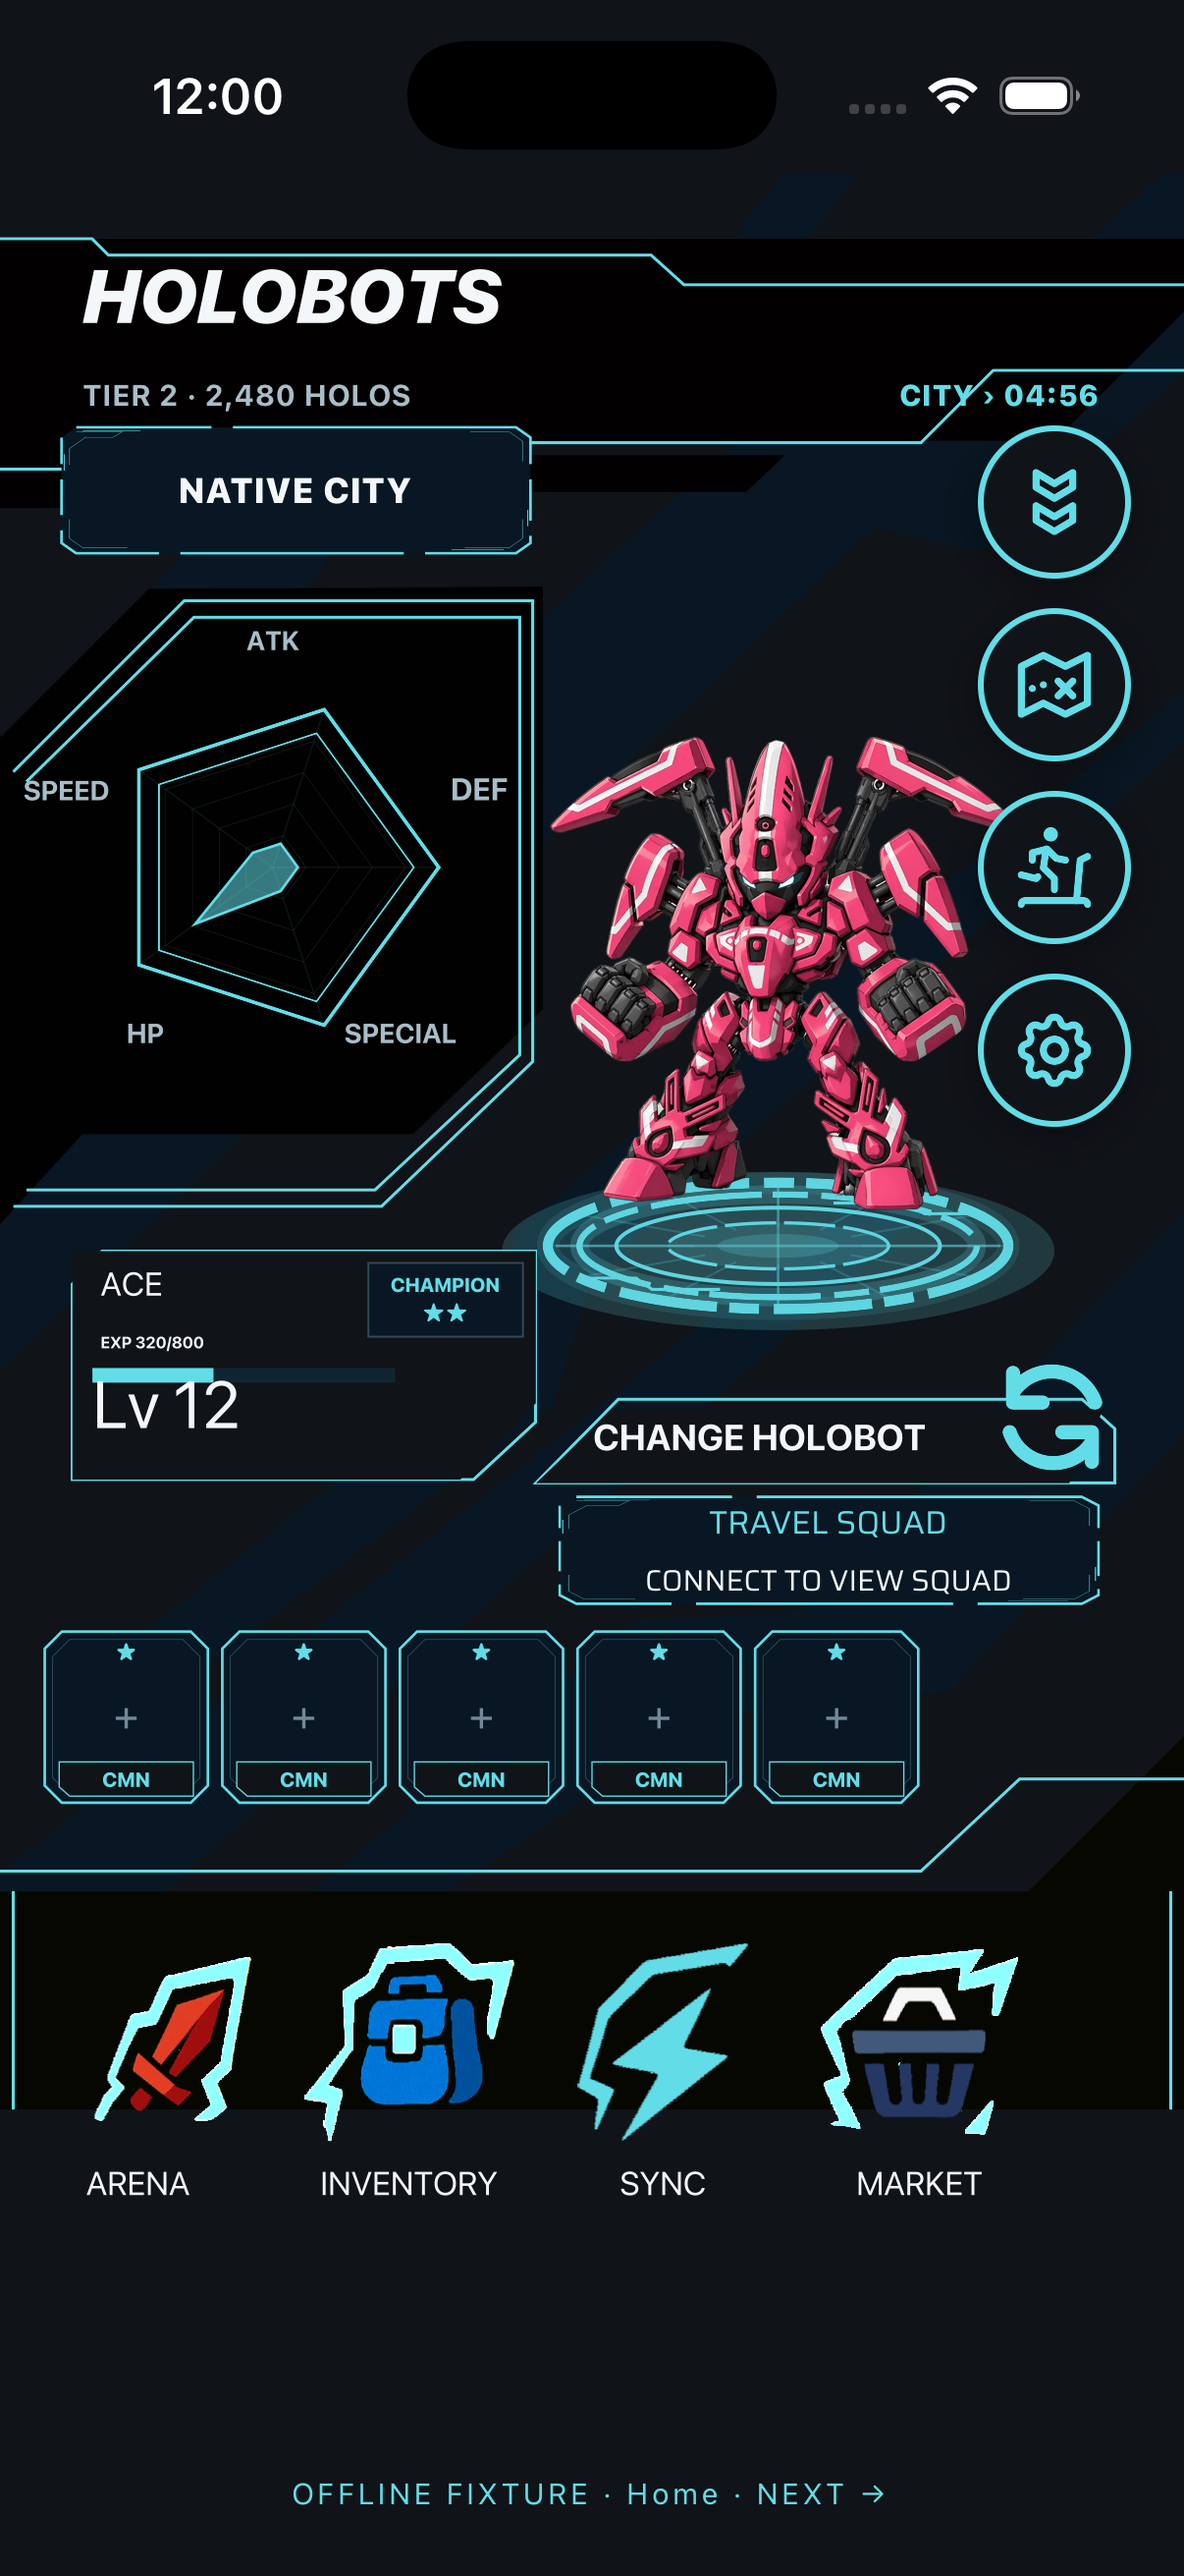
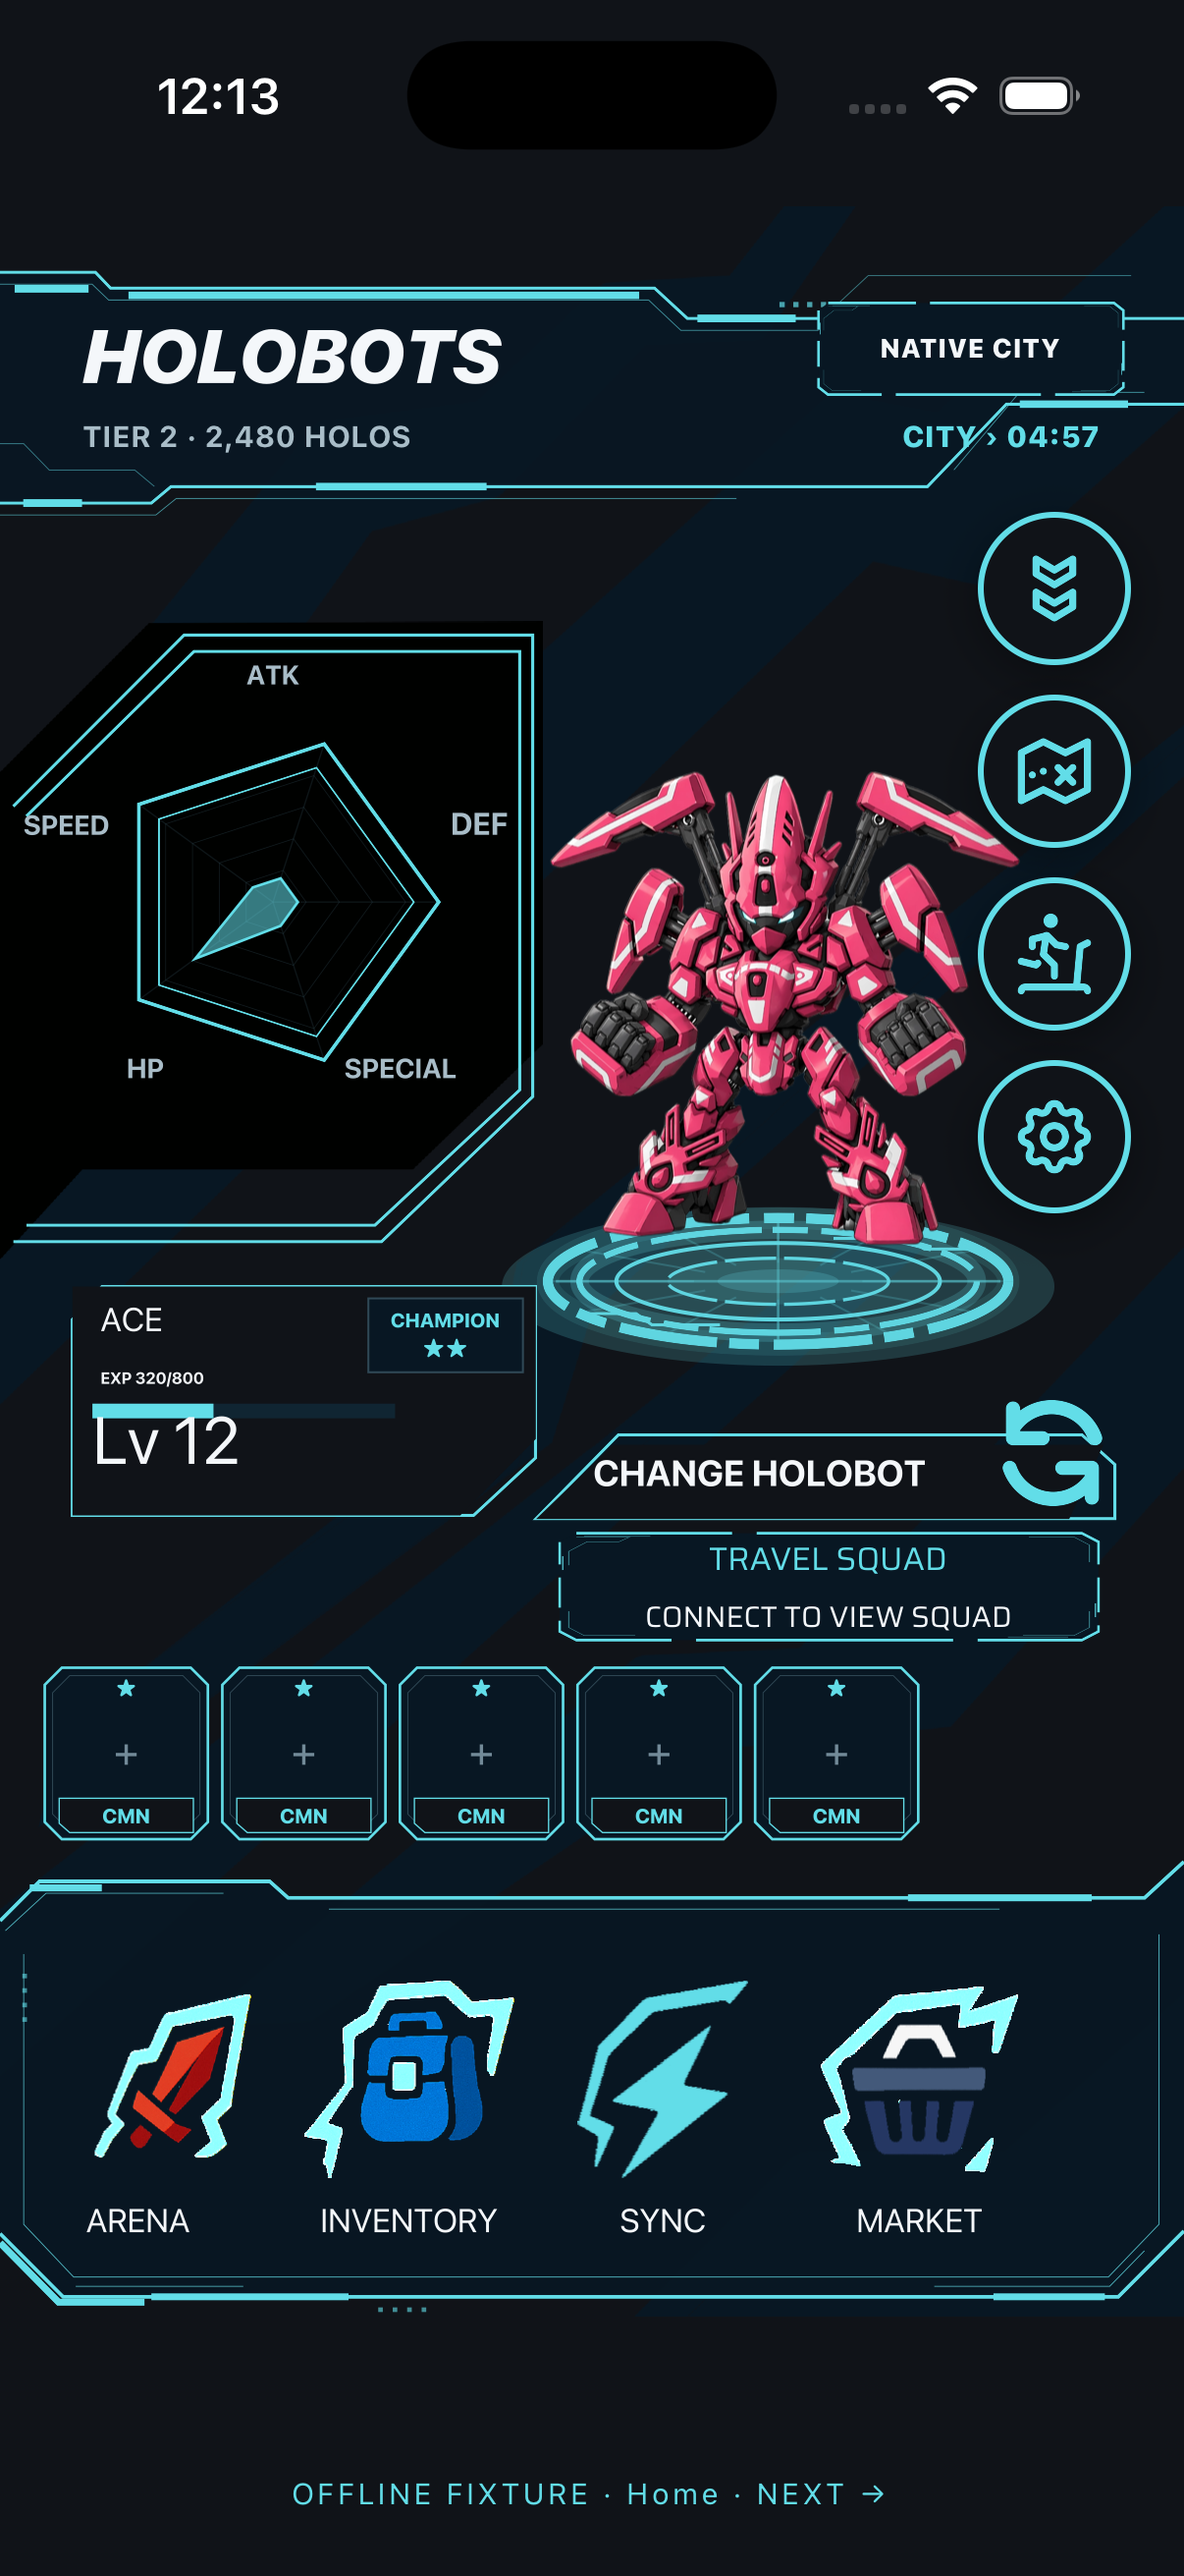
Refine dashboard header and enclosed navigation footer

diff --git a/mobile/src/screens/HomeScreen.tsx b/mobile/src/screens/HomeScreen.tsx
@@ -1,6 +1,7 @@
 import { useMemo, useState } from "react";
 import { Alert, Image as RNImage, Modal, Pressable, ScrollView, StyleSheet, Text as RNText, View, type DimensionValue, type ImageSourcePropType } from "react-native";
 import { Defs, Filter, FeColorMatrix, Image as SvgImage } from "react-native-svg";
+import { useSafeAreaInsets } from "react-native-safe-area-context";
 import { useNavigation } from "@react-navigation/native";
 
 import { DashboardSettingsModal } from "@/components/DashboardSettingsModal";
@@ -211,6 +212,7 @@ function ArtImage({
 
 export function HomeScreen({ rivalPreview }: { rivalPreview?: RivalHudPreview } = {}) {
   const navigation = useNavigation<BottomTabNavigationProp<RootTabs>>();
+  const insets = useSafeAreaInsets();
   const { profile, updateProfile, user } = useAuth();
   const rival = useRivalStatus(user?.uid, rivalPreview);
   const [selectedHolobotIndex, setSelectedHolobotIndex] = useState(0);
@@ -270,11 +272,11 @@ export function HomeScreen({ rivalPreview }: { rivalPreview?: RivalHudPreview } 
     SPEED: Math.min(100, selectedHolobot.stats.speed + partBoosts.speed),
   };
   return (
-    <FigmaCanvas>
+    <View style={{ flex: 1, paddingTop: insets.top + 8, paddingBottom: insets.bottom + 12, backgroundColor: theme.colors.carbon }}>
+    <FigmaCanvas fillHeight>
       <View style={StyleSheet.absoluteFill}>
         <ArtImage tintColor={theme.colors.carbon} source={homeAssets.backgroundBase} x={0} y={0} width={1800} height={3200} />
         <ArtImage tintColor={theme.plates.navy} source={homeAssets.backgroundDetail} x={0} y={0} width={1800} height={3200} />
-        <ArtImage source={homeAssets.topBackground} x={0} y={100} width={1800} height={409} />
         <ArtImage source={homeAssets.attributeChartBase} x={0} y={628} width={825} height={971} zIndex={2} />
         {abilitySlots.map(({ part, x }, index) => (
           <ArtImage
@@ -287,16 +289,24 @@ export function HomeScreen({ rivalPreview }: { rivalPreview?: RivalHudPreview } 
             zIndex={2}
           />
         ))}
-        <ArtImage source={homeAssets.bottomBackground} x={0} y={2375} width={1800} height={857} zIndex={2} />
-        <Svg width="100%" height="100%" viewBox={`0 0 ${ARTBOARD_WIDTH} ${ARTBOARD_HEIGHT}`} style={styles.vectorLayer}>
+        <Svg width="100%" height="100%" preserveAspectRatio="none" viewBox={`0 0 ${ARTBOARD_WIDTH} ${ARTBOARD_HEIGHT}`} style={styles.vectorLayer}>
           <G fill="none" stroke={theme.colors.accent} strokeWidth={5}>
-            <Path d="M0 100 H140 L165 125 H990 L1040 170 H1800 M0 450 H130 L180 410 H1400 L1510 300 H1800" />
+
             <Path d="M20 910 L280 650 H810 V1350 L580 1570 H20 M40 925 L295 675 H790 V1340 L570 1545 H40" />
             <Path d={`M110 ${HOME_INFO_CARD_Y + 50} L155 ${HOME_INFO_CARD_Y} H814 V${HOME_INFO_CARD_Y + 260} L720 ${HOME_INFO_CARD_Y + 347} H110 Z`} />
             <Path d={`M815 ${HOME_CHANGE_BAR_Y + 112} L940 ${HOME_CHANGE_BAR_Y - 15} H1645 L1695 ${HOME_CHANGE_BAR_Y + 30} V${HOME_CHANGE_BAR_Y + 112} Z`} />
-            <Path d="M0 2580 H1400 L1550 2440 H1800 M20 2610 V3100 L100 3170 H1710 L1780 3100 V2610" />
+
           </G>
-          <Text x={126} y={228} fill={theme.colors.text} fontSize={114} fontStyle="italic" fontWeight="900">HOLOBOTS</Text>
+          {/* Layered header plate follows the original silhouette. */}
+          <Path d="M0 100 H145 L168 124 H995 L1045 170 H1800 V300 H1530 L1410 425 H260 L230 450 H0 Z" fill={theme.plates.navy} fillOpacity={0.88} />
+          <G fill="none" stroke={theme.colors.accent}>
+            <Path d="M0 100 H145 L168 124 H995 L1045 170 H1800 M0 450 H230 L260 425 H1410 L1530 300 H1800" strokeWidth={5} />
+            <Path d="M0 118 H140 L165 142 H986 L1035 188 H1470 M0 468 H237 L268 443 H1120 M1450 400 L1550 282 H1740" strokeWidth={2} opacity={0.55} />
+            <Path d="M22 125 H135 M195 135 H930 L972 135 M1060 170 H1210 M480 425 H740 M35 450 H125 M1550 300 H1715" strokeWidth={12} />
+            <Path d="M0 360 H36 L75 400 H205 L235 425 M1250 170 L1320 105 H1720" strokeWidth={2} opacity={0.45} />
+          </G>
+          {[1185,1206,1227,1248].map(x => <Rect key={`header-dot-${x}`} x={x} y={145} width={8} height={8} fill={theme.colors.accent} opacity={0.7} />)}
+          <Text x={126} y={268} fill={theme.colors.text} fontSize={114} fontStyle="italic" fontWeight="900">HOLOBOTS</Text>
 
           {/* Hologram glow centered under the Holobot (portrait is zIndex 20,
               this vector layer is zIndex 10, so the bot stands on it). */}
@@ -393,7 +403,15 @@ export function HomeScreen({ rivalPreview }: { rivalPreview?: RivalHudPreview } 
           <G transform={`translate(1510 ${HOME_CHANGE_BAR_Y - 70})`} fill="none" stroke={theme.colors.accent} strokeWidth={22} strokeLinecap="round" strokeLinejoin="round">
             <Path d="M155 60 A70 70 0 0 0 30 45 M30 15 V60 H75 M25 105 A70 70 0 0 0 150 120 M150 150 V105 H105" />
           </G>
-          <Rect x={0} y={2942} width={1800} height={258} fill={theme.colors.carbon} />
+          {/* A complete plate behind BOTH icons and labels; no opaque label strip clipping its rim. */}
+          <Path d="M0 2600 L60 2540 H410 L438 2565 H1740 L1800 2510 V3070 L1700 3170 H96 L0 3074 Z" fill={theme.plates.navy} fillOpacity={0.92} />
+          <G fill="none" stroke={theme.colors.accent}>
+            <Path d="M0 2600 L60 2540 H410 L438 2565 H1740 L1800 2510 M1800 3070 L1700 3170 H96 L0 3074" strokeWidth={6} />
+            <Path d="M36 2650 V3060 L112 3140 H1685 L1762 3060 V2620 M8 2615 L70 2558 H340 M500 2582 H1520 M115 3154 H370 M1420 3154 H1687 L1740 3100" strokeWidth={2} opacity={0.7} />
+            <Path d="M0 3088 L89 3178 H220 M230 3170 H530 M1510 3170 H1680 M45 2550 H155 M1380 2565 H1660" strokeWidth={11} />
+          </G>
+          {[2680,2702,2724,2746].map(y => <Rect key={`footer-dot-${y}`} x={34} y={y} width={7} height={7} fill={theme.colors.accent} opacity={0.6} />)}
+          {[575,597,619,641].map(x => <Rect key={`footer-dot-${x}`} x={x} y={3186} width={7} height={7} fill={theme.colors.accent} opacity={0.6} />)}
           <Text x={210} y={3072} fill={theme.colors.text} fontSize={50} textAnchor="middle">ARENA</Text>
           <Text x={622} y={3072} fill={theme.colors.text} fontSize={50} textAnchor="middle">INVENTORY</Text>
           <Text x={1008} y={3072} fill={theme.colors.text} fontSize={50} textAnchor="middle">SYNC</Text>
@@ -546,7 +564,7 @@ export function HomeScreen({ rivalPreview }: { rivalPreview?: RivalHudPreview } 
             <RNText style={styles.cityText}>CITY › {rival.countdown || "RIVALS"}</RNText>
           </Pressable>
         </View>
-        <UnityLaunchButton />
+        <View style={styles.nativeCityEntry}><UnityLaunchButton inline compact /></View>
         <TravelSquadPanel uid={user?.uid} roster={roster} />
         <HolobotPickerModal
           onClose={() => setIsPickerOpen(false)}
@@ -648,13 +666,15 @@ export function HomeScreen({ rivalPreview }: { rivalPreview?: RivalHudPreview } 
         </Modal>
       </View>
     </FigmaCanvas>
+    </View>
   );
 }
 
 const styles = StyleSheet.create({
-  statusStrip: { position: "absolute", left: "7%", right: "7%", top: "8%", flexDirection: "row", justifyContent: "space-between", alignItems: "center", zIndex: 30 },
+  nativeCityEntry: { position: "absolute", left: "69%", right: "5%", top: "4.5%", height: 32, zIndex: 35 },
+  statusStrip: { position: "absolute", left: "7%", right: "7%", top: "9.5%", flexDirection: "row", justifyContent: "space-between", alignItems: "center", zIndex: 30 },
   statusText: { color: theme.colors.muted, fontSize: 10, fontWeight: "700" },
-  cityText: { color: theme.colors.accent, fontSize: 10, fontWeight: "800", paddingVertical: 12 },
+  cityText: { color: theme.colors.accent, fontSize: 10, fontWeight: "800", paddingVertical: 4 },
   artImageFrame: {
     position: "absolute",
   },
@@ -706,7 +726,7 @@ const styles = StyleSheet.create({
     gap: 10,
     position: "absolute",
     right: 18,
-    top: "12%",
+    top: "14.5%",
     zIndex: 25,
   },
   statsButton: {

diff --git a/mobile/src/components/dashboard/UnityLaunchButton.tsx b/mobile/src/components/dashboard/UnityLaunchButton.tsx
@@ -5,7 +5,7 @@ import { GameDialogFrame, GameSurfaceFrame } from '@/components/ui/GameSurfaceFr
 import { closeNativeUnity, openNativeUnity } from '@/lib/unity/nativeUnitySession';
 
 /** Manual entry only. An absent native module/framework shows an error, never an imitation runtime. */
-export function UnityLaunchButton({ inline = false }: { inline?: boolean }) {
+export function UnityLaunchButton({ inline = false, compact = false }: { inline?: boolean; compact?: boolean }) {
   const [busy,setBusy]=useState(false),[error,setError]=useState('');
   const mounted=useRef(true),starting=useRef(false),close=useRef<(()=>Promise<void>)|null>(null);
   useEffect(()=>{mounted.current=true;return()=>{mounted.current=false;if(starting.current)void closeNativeUnity().catch(()=>{});else void close.current?.().catch(()=>{});};},[]);
@@ -16,8 +16,8 @@ export function UnityLaunchButton({ inline = false }: { inline?: boolean }) {
     finally{starting.current=false;if(mounted.current)setBusy(false);}
   };
   return <>
-    <Pressable style={inline ? styles.inlineEntry : styles.entry} disabled={busy} onPress={()=>void launch()} accessibilityRole="button" accessibilityLabel="Open native HoloCity" accessibilityState={{busy,disabled:busy}}>
-      <GameSurfaceFrame accent={theme.colors.accent} fill={theme.plates.navy}/><Text style={styles.label}>{busy?'OPENING…':'NATIVE CITY'}</Text>
+    <Pressable style={[inline ? styles.inlineEntry : styles.entry, compact && { minHeight: 32 }]} disabled={busy} onPress={()=>void launch()} accessibilityRole="button" accessibilityLabel="Open native HoloCity" accessibilityState={{busy,disabled:busy}}>
+      <GameSurfaceFrame accent={theme.colors.accent} fill={theme.plates.navy}/><Text style={[styles.label, compact && { fontSize: 9 }]}>{busy?'OPENING…':'NATIVE CITY'}</Text>
     </Pressable>
     <Modal visible={!!error} transparent animationType="fade" onRequestClose={()=>setError('')}>
       <View style={styles.backdrop}><View style={styles.dialog}><GameDialogFrame accent={theme.colors.accent} fill={theme.plates.navy}/>

diff --git a/mobile/src/components/FigmaCanvas.tsx b/mobile/src/components/FigmaCanvas.tsx
@@ -1,17 +1,18 @@
 import { theme } from "@/theme";
-import { ReactNode } from "react";
+import { ReactNode, useState } from "react";
 import { View, useWindowDimensions, StyleSheet } from "react-native";
 
 import { ARTBOARD_HEIGHT, ARTBOARD_WIDTH } from "@/config/figmaAssets";
 
-export function FigmaCanvas({ children }: { children: ReactNode }) {
+export function FigmaCanvas({ children, fillHeight = false }: { children: ReactNode; fillHeight?: boolean }) {
+  const [availableHeight, setAvailableHeight] = useState(0);
   const { width, height } = useWindowDimensions();
   const portraitRatio = ARTBOARD_WIDTH / ARTBOARD_HEIGHT;
   const canvasWidth = Math.min(width, height * portraitRatio);
-  const canvasHeight = Math.min(height, width / portraitRatio);
+  const canvasHeight = fillHeight && availableHeight ? availableHeight : Math.min(height, width / portraitRatio);
 
   return (
-    <View style={styles.page}>
+    <View style={styles.page} onLayout={event => setAvailableHeight(event.nativeEvent.layout.height)}>
       <View style={[styles.canvas, { width: canvasWidth, height: canvasHeight }]}>
         {children}
       </View>

diff --git a/Documentation/QA/2026-10-14-mobile-holocity-lite/W5.md b/Documentation/QA/2026-10-14-mobile-holocity-lite/W5.md
@@ -97,3 +97,9 @@ Restored the original dashboard arrangement at the user's request. The Home hero
 Verified on iPhone 17 Pro / iOS 26.5: bot picker opens and selecting SHADOW returns to Home; head equipment opens its empty-owned-parts dialog; Inventory navigation opens the roster. TypeScript and diff whitespace checks pass. Offline fixture only; no account mutations.
 
 Production iOS export after the dashboard revision: **7,480,288 bytes** Hermes, **3,130,677 bytes** gzip; full export **110,116,552 bytes** in 230 files. [Measurement](evidence/dashboard-bundle-size.json). This supersedes the earlier bundle measurement for the current branch.
+
+## Header/footer refinement — 2026-10-15
+
+Dashboard chrome now has layered cyan rails, corner cuts, edge ticks and navy plates closer to the supplied original reference. The footer encloses all four icons and labels; removing the opaque label strip fixes the clipped lower rim. Home alone fills its safe-area canvas so the footer no longer floats above an oversized blank area. Native City remains available as a compact header control, with tier/Holos and city cooldown below it. Other screens retain their existing canvas sizing.
+
+Checked the final Home screenshot on iPhone 17 Pro; header controls do not overlap and all four footer targets remain exposed. Tapping Market opens Marketplace. TypeScript and whitespace checks pass. This revision touches dashboard skin only; DuelPlaybackScreen and W15 receipt wiring were not edited.
